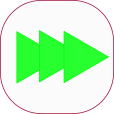
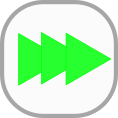
Add speed buttons, change styles, cellar terrain gen, fix chunks

Changed region(s): [[0.0, 0.0, 1.0, 1.0], [0.1316, 0.2632, 0.4737, 0.7368], [0.1842, 0.6053, 0.5, 0.7368]]

diff --git a/Classes/terrainGenerator.cpp b/Classes/terrainGenerator.cpp
@@ -17,7 +17,7 @@ void terrainGenerator::Terrain::createTexture() {
             loadTile(getTexturePath(TileType::grass), tileSize * 2, tileSize * 2)
     };
 
-    canvas.draw_fill(0, 0, white);
+    //canvas.draw_fill(0, 0, white);
 
     generateHeightMap();
 
@@ -28,7 +28,7 @@ void terrainGenerator::Terrain::createTexture() {
     cl::CImg<double> chunkCanvas((chunkSize * tileSize) * 2, (chunkSize * tileSize) * 2);
     chunkCanvas.channels(0, 3);
 
-    smoothHeights(4);
+    //smoothHeights(4);
 
     // generate height map chunks
     for (int chunkRow = 0; chunkRow < lineChunks; chunkRow++) {
@@ -41,6 +41,9 @@ void terrainGenerator::Terrain::createTexture() {
                 int jDraw = 0;
                 for (int j = chunkCol * chunkSize; j < chunkCol * chunkSize + chunkSize; j++, jDraw++) {
 
+                    terrainMap[i][n - j - 1].height = linearNormalize(terrainMap[i][n - j - 1].height,
+                                                                      minHeight,
+                                                                      maxHeight);
                     double height = terrainMap[i][n - j - 1].height;
 
                     double heightColor[3] = {height * 255, height * 255, height * 255};
@@ -65,8 +68,8 @@ void terrainGenerator::Terrain::createTexture() {
                 int jDraw = 0;
                 for (int j = chunkCol * chunkSize; j < chunkCol * chunkSize + chunkSize; j++, jDraw++) {
 
-                    double height = linearNormalize(terrainMap[i][n - j - 1].height, minHeight, maxHeight);
-                    terrainMap[i][n - j - 1].height = height;
+                    double height = terrainMap[i][n - j - 1].height;
+
                     TileType tileType = tileByHeight(height);
                     terrainMap[i][n - j - 1].assign(i, j, tileType);
 
@@ -102,12 +105,12 @@ void terrainGenerator::Terrain::createTexture() {
             canvas.draw_image(i * tileSize * 2, j * tileSize * 2, tiles[tileType]);
         }
     }
-    // height color filter
-    cl::CImg<unsigned char> heightFilter = loadTile(heightMap, 2 * tileSize * n, 2 * tileSize * n);
-
-    canvas.draw_image(0, 0, heightFilter, 0.1);
-
-
+//    // height color filter
+//    cl::CImg<unsigned char> heightFilter = loadTile(heightMap, 2 * tileSize * n, 2 * tileSize * n);
+//
+//    canvas.draw_image(0, 0, heightFilter, 0.1);
+//
+//
     canvas.save(texturePath);
 }
 
@@ -176,27 +179,27 @@ void terrainGenerator::Terrain::removeCreature(int _x, int _y, Tribe *creature) 
 }
 
 void terrainGenerator::Terrain::generateHeightMap() {
-    FastNoise perlin1(seed);
-    perlin1.SetNoiseType(FastNoise::Perlin);
-    perlin1.SetFractalOctaves(6);
-    perlin1.SetFrequency(0.3);
+    FastNoise noise1(seed);
+    noise1.SetNoiseType(FastNoise::Cellular);
+    //noise1.SetFractalOctaves(5);
+    noise1.SetFrequency(0.25);
 
-    FastNoise perlin2(seed);
-    perlin2.SetNoiseType(FastNoise::Perlin);
-    perlin2.SetFractalOctaves(6);
-    perlin2.SetFrequency(0.4);
+    FastNoise noise2(seed);
+    noise2.SetNoiseType(FastNoise::Cellular);
+    //noise2.SetFractalOctaves(5);
+    noise2.SetFrequency(0.15);
 
-    FastNoise perlin3(seed);
-    perlin3.SetNoiseType(FastNoise::Perlin);
-    perlin3.SetFractalOctaves(6);
-    perlin3.SetFrequency(0.6);
+    FastNoise noise3(seed);
+    noise3.SetNoiseType(FastNoise::PerlinFractal);
+    noise3.SetFractalOctaves(5);
+    noise3.SetFrequency(0.1);
 
 
     for (int i = 0; i < n; i++) {
         for (int j = 0; j < n; j++) {
-            double height = 1 * perlin1.GetNoise(i + 2, j + 2) +
-                            0.5 * perlin2.GetNoise(i + 2, j + 2) +
-                            0.25 * perlin3.GetNoise(i + 2, j + 2);
+            double height = 1 * noise1.GetNoise(i + 2, j + 2) +
+                            0.1 * noise2.GetNoise(i + 2, j + 2) +
+                            0.25 * noise3.GetNoise(i + 2, j + 2);
 
             if (height > maxHeight)
                 maxHeight = height;

diff --git a/Classes/MainScene.cpp b/Classes/MainScene.cpp
@@ -26,8 +26,6 @@
 
 #include "SimpleAudioEngine.h"
 
-#include "terrainGenerator.h"
-
 
 USING_NS_CC;
 
@@ -43,18 +41,15 @@ static void problemLoading(const char *filename) {
     printf("Depending on how you compiled you might have to add 'Resources/' in front of filenames in HelloWorldScene.cpp\n");
 }
 
-// on "init" you need to initialize your instance
 bool MainScene::init() {
-    //////////////////////////////
-    // 1. super init first
+    // 1. Scene context init first
     if (!Scene::init()) {
         return false;
     }
 
     setTickTime(0.5f);
 
-
-    CCLayerColor *backGround = CCLayerColor::create(Color4B(255, 255, 255, 255));
+    auto backGround = cocos2d::LayerColor::create(Color4B(255, 255, 255, 255));
 
     backGround->setPosition(Vec2(0, 0));
 
@@ -62,14 +57,20 @@ bool MainScene::init() {
 
 
     setField(Field::create());
-    field->createField(100);
-    for (int i = 0; i < 8; i++) {
-        if (Random::get<bool>())
-            field->addTribe(Random::get(0, field->getN() - 1), Random::get(0, field->getN() - 1), "Meskwaki");
-        else
-            field->addTribe(Random::get(0, field->getN() - 1), Random::get(0, field->getN() - 1), "Obunga");
-    }
+    field->createField(50);
 
+    for (auto &creatureType:creatureTypes) {
+        for (int i = 0; i < 8; i++) {
+            for (int tryCount = 0; tryCount < 100; tryCount++) {
+                int xSpawn = Random::get(0, field->getN() - 1);
+                int ySpawn = Random::get(0, field->getN() - 1);
+                if (field->getTileType(xSpawn, ySpawn) != terrainGenerator::TileType::water) {
+                    field->addTribe(xSpawn, ySpawn, creatureType);
+                    break;
+                }
+            }
+        }
+    }
 
     field->setAnchorPoint(Vec2(0.5, 0.5));
 
@@ -107,7 +108,53 @@ bool MainScene::init() {
 
     _eventDispatcher->addEventListenerWithSceneGraphPriority(mouseEvent, this);
 
-    //log("pos field %i %i", field->getPositionX(), field->getPositionY());
+
+    auto SpeedNormal = cocos2d::ui::Button::create("normal-speed.png", "normal-speed-dis.png");
+    auto SpeedX2 = cocos2d::ui::Button::create("x2-speed.png", "x2-speed-dis.png");
+    auto SpeedX3 = cocos2d::ui::Button::create("x3-speed.png", "x3-speed-dis.png");
+
+
+    int buttonSize = 40;
+
+    SpeedNormal->setAnchorPoint(Vec2(0, 0));
+    SpeedX2->setAnchorPoint(Vec2(0, 0));
+    SpeedX3->setAnchorPoint(Vec2(0, 0));
+
+    SpeedNormal->setScale(buttonSize / SpeedNormal->getContentSize().width);
+    SpeedX2->setScale(buttonSize / SpeedX2->getContentSize().width);
+    SpeedX3->setScale(buttonSize / SpeedX3->getContentSize().width);
+
+    float buttonX = this->getPositionX() + this->getContentSize().width;
+    float buttonY = this->getPositionY() + 20;
+
+    SpeedNormal->setPosition(Vec2(buttonX - buttonSize * 3, buttonY));
+    SpeedX2->setPosition(Vec2(buttonX - buttonSize * 2, buttonY));
+    SpeedX3->setPosition(Vec2(buttonX - buttonSize * 1, buttonY));
+
+    SpeedNormal->setEnabled(true);
+    SpeedX2->setEnabled(false);
+    SpeedX3->setEnabled(false);
+
+
+    SpeedNormal->addTouchEventListener([&](Ref* sender, cocos2d::ui::Widget::TouchEventType type){
+        switch (type)
+        {
+            case ui::Widget::TouchEventType::BEGAN:
+                break;
+            case ui::Widget::TouchEventType::ENDED:
+                std::cout << "Button 1 clicked" << std::endl;
+                break;
+            default:
+                break;
+        }
+    });
+
+    // TODO: here add speed change by buttons
+
+    this->addChild(SpeedNormal);
+    this->addChild(SpeedX2);
+    this->addChild(SpeedX3);
+
 
     this->scheduleUpdate();
     this->schedule(schedule_selector(Field::gameStep), tickTime);
@@ -231,4 +278,3 @@ std::map<cocos2d::EventKeyboard::KeyCode,
 float MainScene::tickTime = 0.1f;
 
 Field *MainScene::field = nullptr;
-

diff --git a/Classes/Field.cpp b/Classes/Field.cpp
@@ -30,8 +30,6 @@ void Field::createField(int _n) {
     Tribe::setParrentTerrain(newTerrain);
     int lineChunks = n / chunkSize;
 
-    // TODO
-
     int fieldX = this->getPositionX();
     int fieldY = this->getPositionY();
 
@@ -39,7 +37,7 @@ void Field::createField(int _n) {
     for (int i = 0; i < lineChunks; i++) {
         int jPos = 0;
         for (int j = 0; j < lineChunks; j++) {
-            int chunkID = i + j * lineChunks;
+            int chunkID = j + i * lineChunks;
             auto chunk = Sprite::create(
                     "Chunks/TextureChunks/fieldTexture" + std::to_string(chunkID) + ".png");
 
@@ -86,9 +84,14 @@ void Field::scaleBy(float duration, float scaleFactor) {
 
 void Field::addTribe(int x, int y, const std::string &type) {
 
-    auto newTribe = Tribe::createCreatureSprite(x % n, y % n, tileSize, n, type, "character.png");
-    if (type == "Obunga")
-        newTribe->setTexture("lizzard.png");
+    auto newTribe = Tribe::createCreatureSprite(x % n, y % n, tileSize, n, type, "red.png");
+
+    if (type == "Player")
+        newTribe->setTexture("red.png");
+    else if (type == "Obunga")
+        newTribe->setTexture("blue.png");
+    else if (type == "Meskwaki")
+        newTribe->setTexture("green.png");
 
     newTribe->setScale(tileSize / newTribe->getContentSize().width);
     newTribe->setAnchorPoint(Vec2(0, 0));
@@ -132,12 +135,22 @@ void Field::gameStep(float dt) {
 //terrainGenerator::Terrain &Field::getTerrain() { return *terrain; }
 
 
+void Field::moveTo(cocos2d::Vec2 vec, float secs) {
+    runAction(MoveTo::create(secs, vec));
+}
+
+terrainGenerator::TileType Field::getTileType(int _x, int _y) {
+    if (_x >= 0 && _x < n) {
+        if (_y > 0 && _y < n) {
+            return terrain->getTile(_x, _y).type;
+        } else
+            return terrainGenerator::TileType::water;
+    } else
+        return terrainGenerator::TileType::water;
+}
+
 std::vector<Tribe *> Field::tribes;
 
 terrainGenerator::Terrain *Field::terrain = nullptr;
 
 float Field::AnimationSpeed = 0.1f;
-
-void Field::moveTo(cocos2d::Vec2 vec, float secs) {
-    runAction(MoveTo::create(secs, vec));
-}

diff --git a/Classes/Tribe.cpp b/Classes/Tribe.cpp
@@ -51,6 +51,7 @@ Tribe::Tribe() {
     peopleLabel->setString(std::to_string(peopleCount()));
     addChild(peopleLabel);
 
+
     std::cout << std::endl;
 }
 
@@ -120,9 +121,8 @@ void Tribe::manage() {
     log("food %i", food);
     for (auto &person:people) {
         //if (person.hunger < 0 || person.hunger < Person::hungerPerStep + 2) {
-
+        if (person.getHunger() < 10)
             feed(person, 5);
-
         person.stats();
     }
     log("food %i", food);
@@ -237,7 +237,7 @@ CreatureActions Tribe::step() {
 
     // Food check
     if (field->getTile(x, y).type == terrainGenerator::TileType::grass) {
-        food += people.size() * 5;
+        food += people.size() * 3;
     }
 
     people.erase(std::remove_if(people.begin(), people.end(), [=](Person &person) {
@@ -288,7 +288,7 @@ int Tribe::startSpecialPoints = 10;
 
 int Tribe::walkLimit = 1;
 
-void Tribe::feed(Person &person, std::size_t foodAmount) {
+void Tribe:: feed(Person &person, std::size_t foodAmount) {
     if (food >= foodAmount) {
         person.eat(foodAmount);
         food -= foodAmount;

diff --git a/Classes/Person.cpp b/Classes/Person.cpp
@@ -115,7 +115,10 @@ int Person::calculateAttack() {
 }
 
 void Person::eat(std::size_t foodAmount) {
-    hunger += foodAmount;
+    if (hunger + foodAmount > maxHunger)
+        hunger = maxHunger;
+    else
+        hunger += foodAmount;
     //std::cout << "hunger + " << hunger << std::endl;
 }
 
@@ -153,8 +156,9 @@ int Person::basicAttack = 1;
 int Person::basicRegen = 1;
 int Person::pregnancyPerion = 10;
 int Person::hungerPerAttack = 5;
-int Person::hungerPerStep = 3;
+int Person::hungerPerStep = 20;
 int Person::stepsBeforBreed = 20;
+int Person::maxHunger = 100;
 
 
 

diff --git a/Classes/Person.h b/Classes/Person.h
@@ -51,6 +51,7 @@ public:
         std::cout << "hp: " << health << " hunger: " << hunger << std::endl;
     }
 
+    static int getMaxHunger() { return maxHunger; }
 
 
     static void
@@ -83,7 +84,7 @@ private:
     int health = 100;
     int maxHealth = 100;
 
-    int hunger = 20;
+    int hunger = 10;
 
     SPECIAL attributes;
 
@@ -99,6 +100,7 @@ private:
     static int hungerPerAttack;
     static int hungerPerStep;
     static int stepsBeforBreed;
+    static int maxHunger;
 
 
     static int MAX_ID;

diff --git a/Classes/MainScene.h b/Classes/MainScene.h
@@ -26,8 +26,12 @@
 #define __MainScene_H__
 
 #include "cocos2d.h"
+#include "ui/CocosGUI.h"
+
 #include "Field.h"
 #include "random.h"
+#include "terrainGenerator.h"
+//#include "ui/CocosGUI.h"
 
 #include <map>
 
@@ -47,6 +51,8 @@ public:
 
 
 private:
+    std::vector<std::string> creatureTypes = {"Player", "Obunga", "Meskwaki"};
+
     static Field *field;
     static float tickTime;
 

diff --git a/Classes/Field.h b/Classes/Field.h
@@ -39,6 +39,8 @@ public:
 
     void createField(int n);
 
+    terrainGenerator::TileType getTileType(int _x, int _y);
+
     void addTribe(int x, int y, const std::string &type);
 
     static void setAnimationSpeed(float val) {
